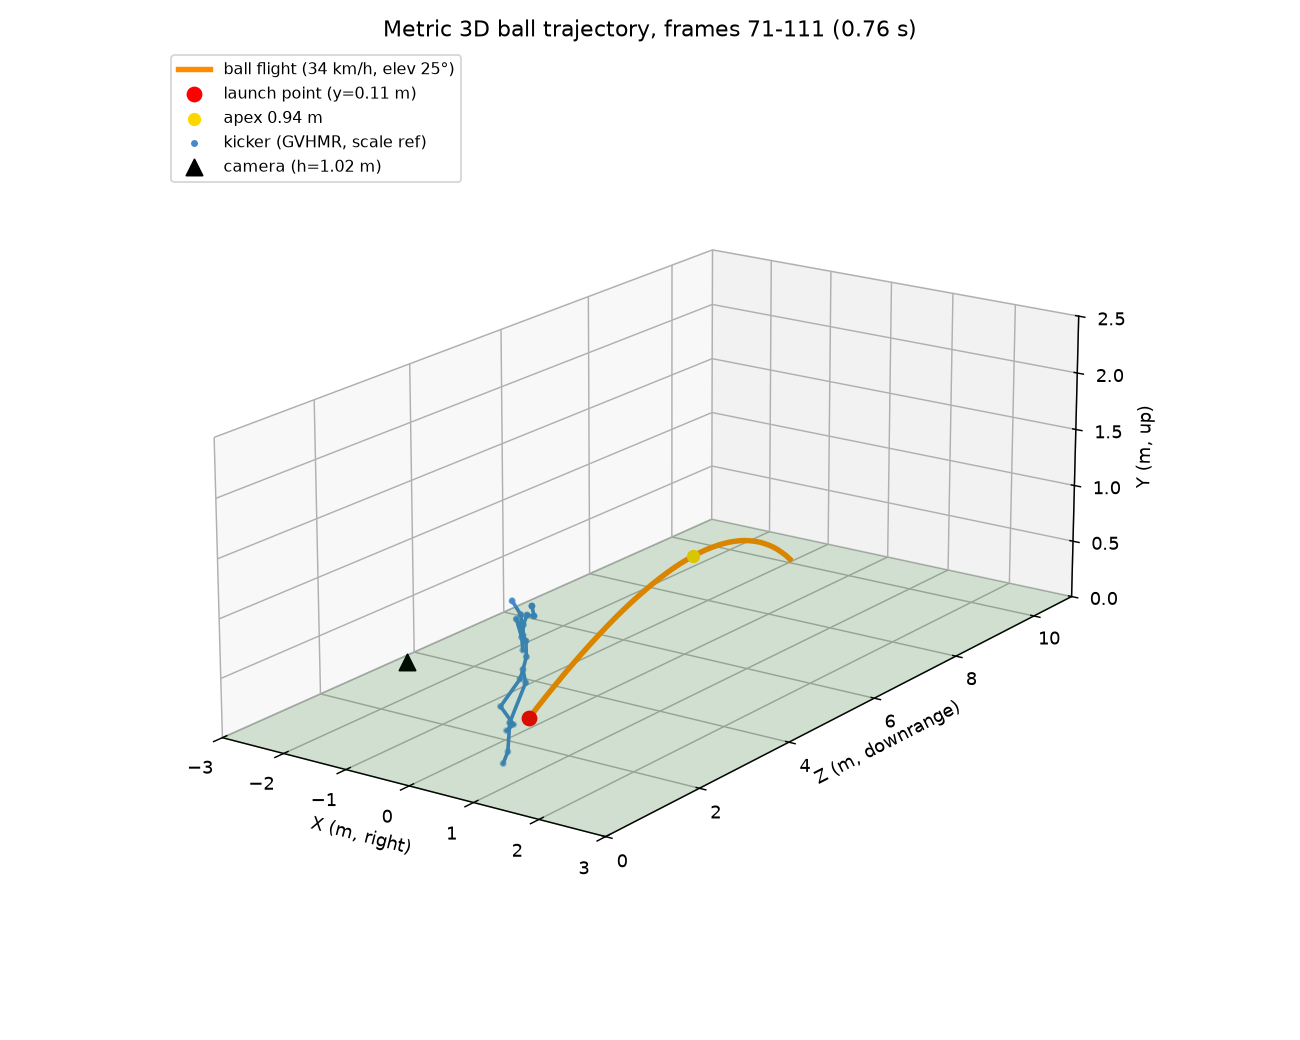
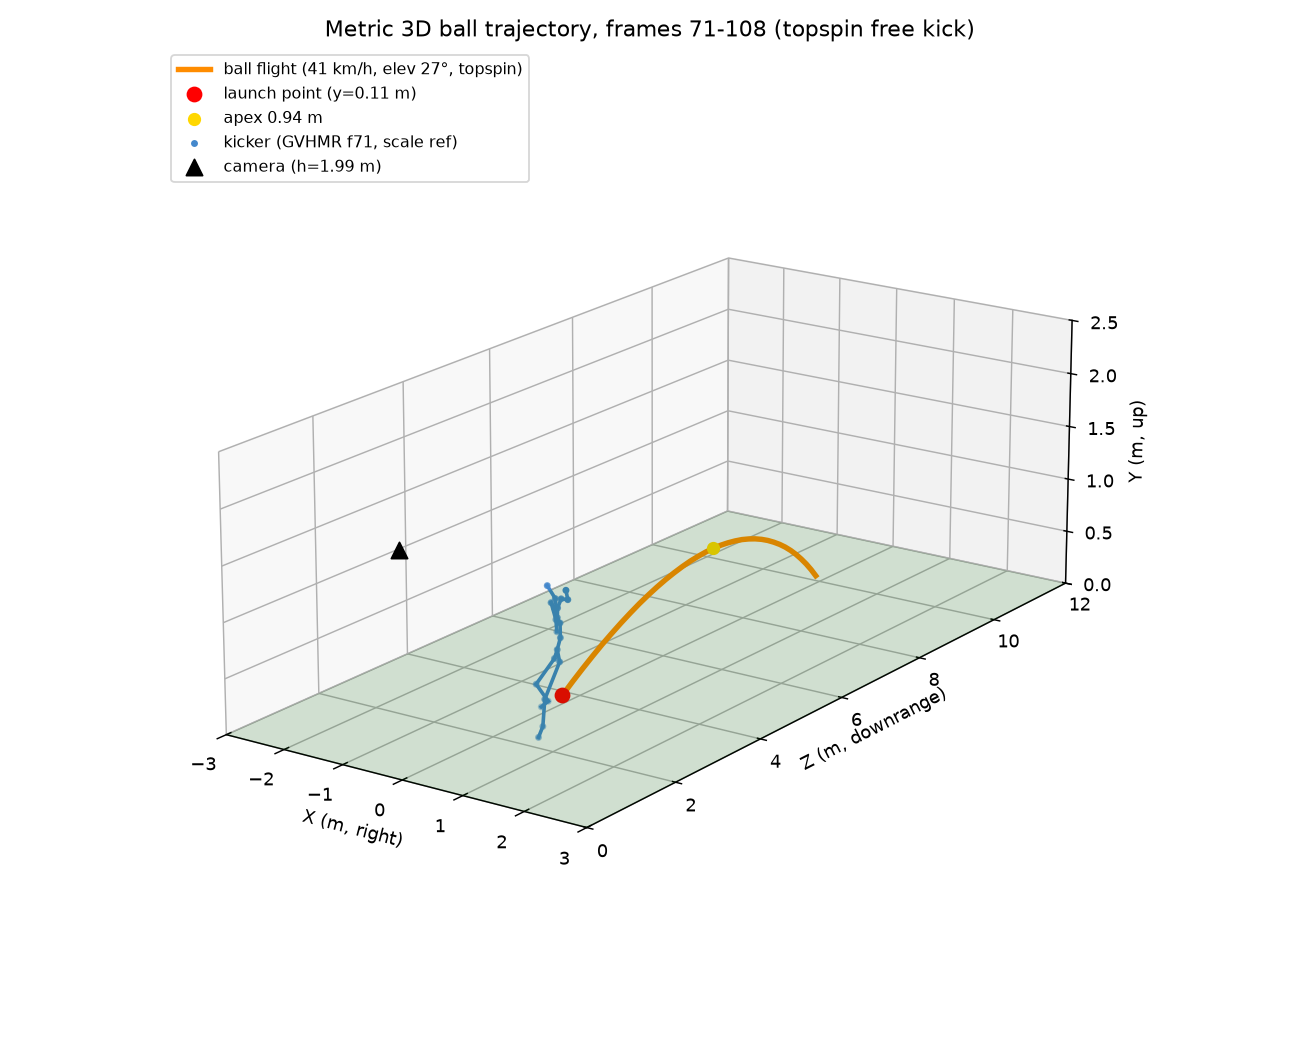
ball trajectory: final topspin-model fit (40.6 km/h, band 25-45) replaces interim ballistic numbers
Claude-Session: https://claude.ai/code/session_011We2hj4THf7HaDDCm6nvMm

diff --git a/index.html b/index.html
@@ -230,12 +230,14 @@ stryke/heroshoot product: studio-dark arena, key + rim lighting, supersampled. T
 <p class="lead">Prototype (2026-08-14): three competing 2D ball trackers (frame-differencing, Hough/white-mask, optical flow)
 were fused into one track (37 observations, frames 72–111, camera pan stabilized), then a physics-constrained fit —
 gravity as the metric ruler, launch point on the ground at the known contact frame, GVHMR body scale as cross-check —
-recovered the 3D flight. The fitted lateral curve (−5.1 m/s²) matches the clip's own caption: a topspin practice shot.</p>
+recovered the 3D flight. A pure ballistic model left a 65 px S-shaped residual; adding spin terms resolved it — the fit
+converged on heavy <b>topspin</b> with a leftward curl, independently corroborated by the clip's own caption ("탑스핀 사격 준비").
+This is a short ~7 m topspin training shot into a close goal, not a long match free kick — 40 km/h is the expected class.</p>
 <div class="tiles">
-  <div class="tile"><div class="v">33.9 km/h</div><div class="k">launch speed</div><div class="n">uncertainty band 25–43 km/h</div></div>
-  <div class="tile"><div class="v">25.3°</div><div class="k">launch elevation</div><div class="n">azimuth 10.9° right</div></div>
-  <div class="tile"><div class="v">0.94 m</div><div class="k">apex height</div><div class="n">over ~10 m of flight in 0.76 s</div></div>
-  <div class="tile"><div class="v">12.9 px</div><div class="k">fit RMS reprojection</div><div class="n">37 tracked points, 3-tracker fusion</div></div>
+  <div class="tile"><div class="v">40.6 km/h</div><div class="k">launch speed</div><div class="n">uncertainty band 25–45 km/h</div></div>
+  <div class="tile"><div class="v">27.1°</div><div class="k">launch elevation</div><div class="n">azimuth 11.9° right, curling left</div></div>
+  <div class="tile"><div class="v">0.94 m</div><div class="k">apex height</div><div class="n">~7 m carry in 0.76 s; camera solved at 1.99 m / 15° down</div></div>
+  <div class="tile"><div class="v">12.0 px</div><div class="k">fit RMS reprojection</div><div class="n">37 fused observations, 3-tracker agreement 5–10 px</div></div>
 </div>
 <div class="grid2" style="margin-top:16px">
   <div>
@@ -247,9 +249,9 @@ recovered the 3D flight. The fitted lateral curve (−5.1 m/s²) matches the cli
     <p class="vidcap">Metric world-frame flight: launch point, apex, kicker skeleton as scale reference. <a style="color:var(--series-1)" href="assets/trajectory3d.json">trajectory3d.json</a></p>
   </div>
 </div>
-<p style="color:var(--muted);font-size:0.8rem;margin-top:10px">Honest caveats: single static uncalibrated camera → the ±9 km/h band comes from intrinsics ±15% and camera-tilt ±5° sweeps;
-the ball-to-foot speed ratio (0.46) is low versus solid instep strikes (1.1–1.4), consistent with a lofted topspin flick but also a reminder that
-foot-peak speed and ball speed carry independent errors. Recording at 240 fps slo-mo would collapse most of the tracking uncertainty.</p>
+<p style="color:var(--muted);font-size:0.8rem;margin-top:10px">Honest caveats: single uncalibrated (and slightly panning) camera → the band spans the no-spin interpretation (25 km/h)
+through the preferred topspin model's intrinsics/tilt sweep (37–45 km/h); fitted spin forces (~0.9 g) likely absorb some ball-radius bias; assumes the clip is real-time.
+The recording-requirements spec (<code>TBG-DOCS/plans/23-stryke-heroshoot/ball-trajectory.md</code>) exists to shrink exactly these terms — original file (no screen recording), tripod, 240 fps, side-on view, goal in frame.</p>
 
 <h2>Readiness — what it took to run a fresh clone</h2>
 <p class="lead">The fork is now turn-key: six gaps were found on a clean <code>INSTALL_SLIM.md</code> install and fixed in
